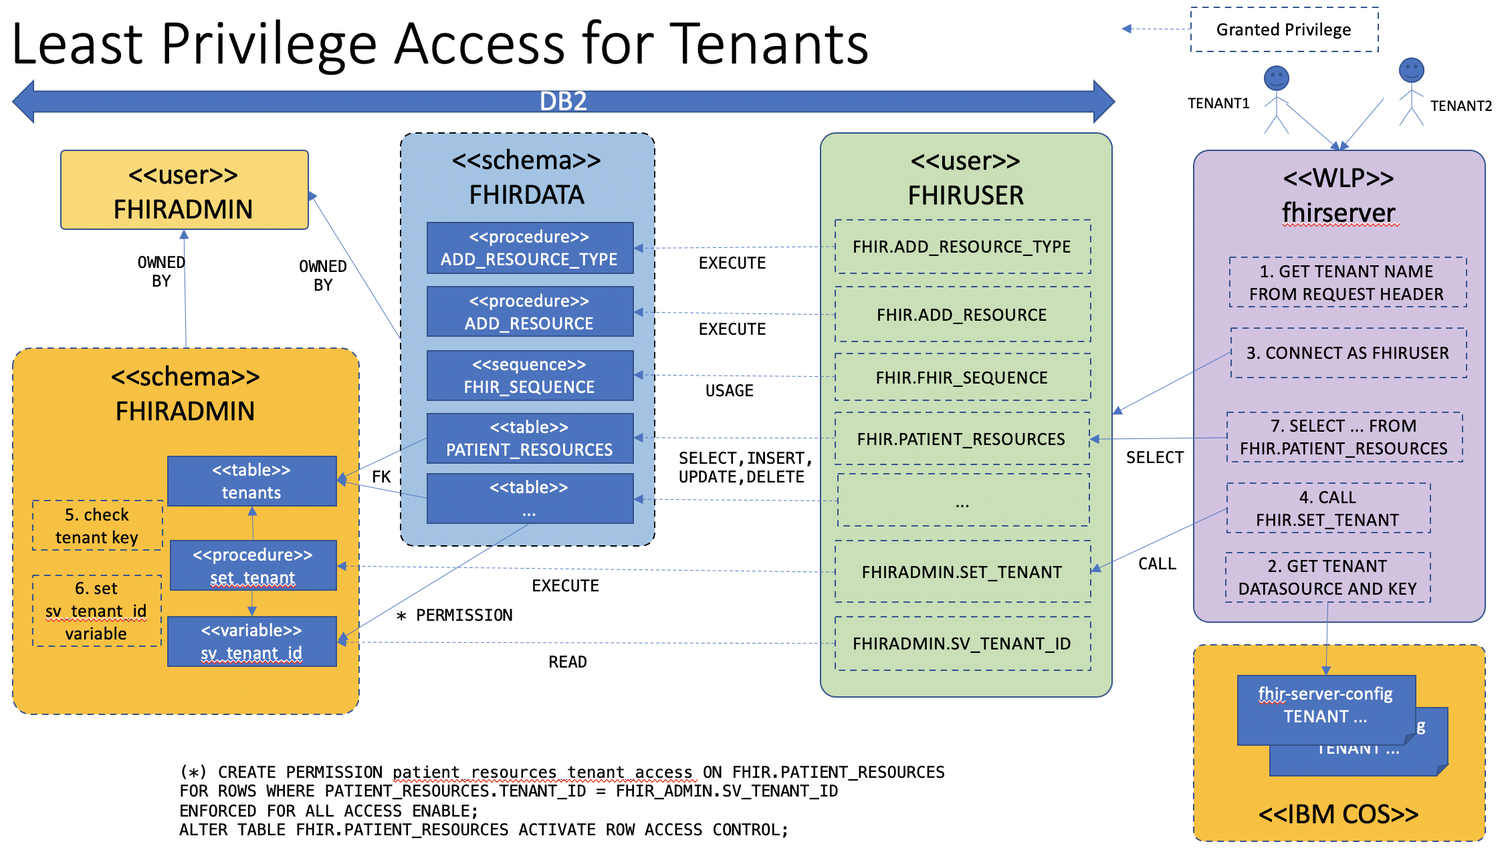
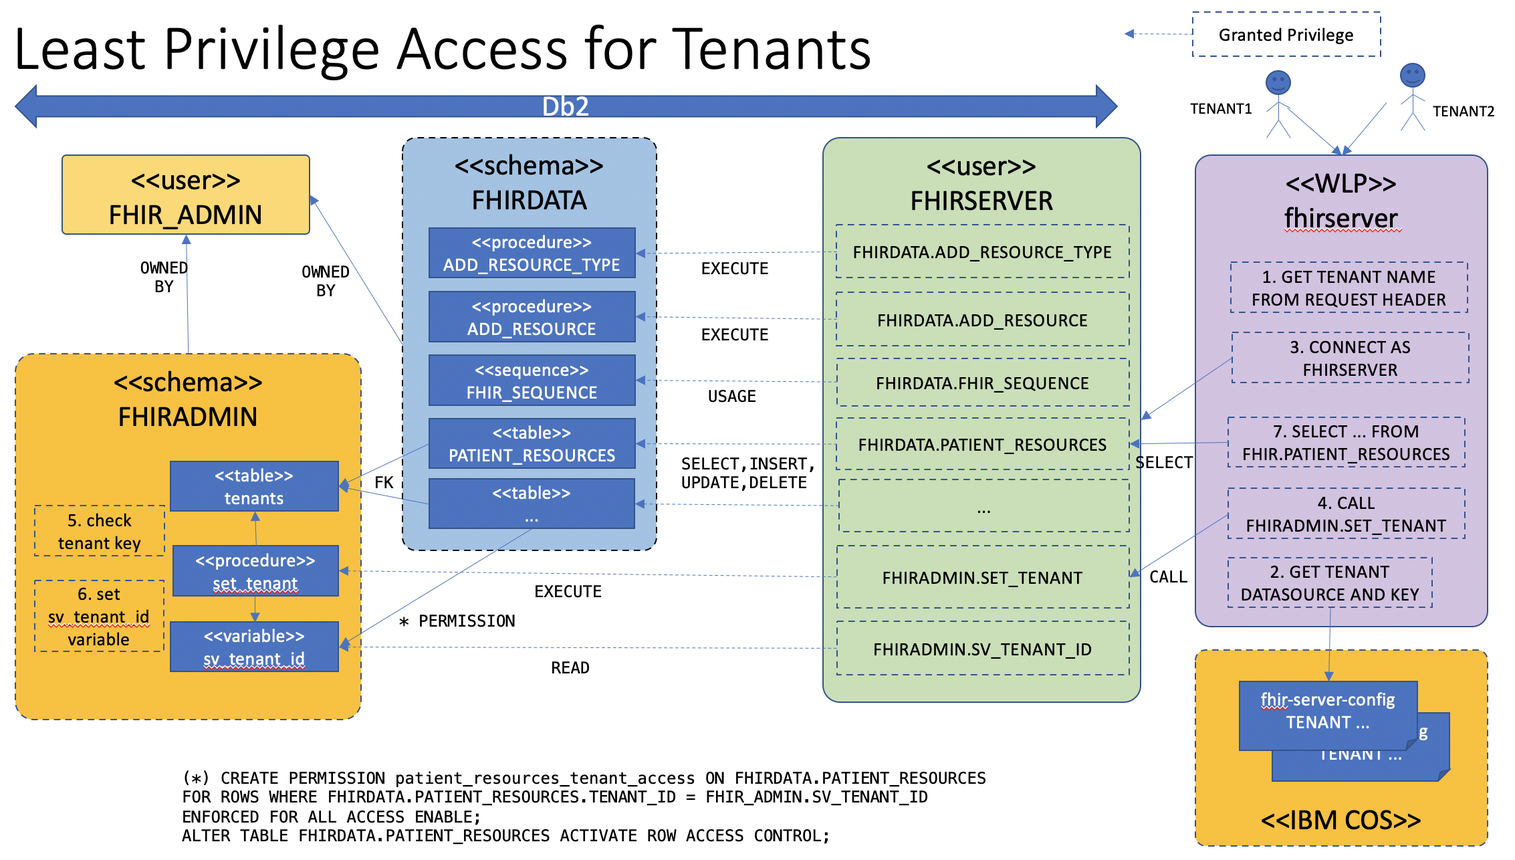
issue-1132 addressed review comments from Paul

diff --git a/fhir-persistence-schema/docs/DB2MultiTenancy.md b/fhir-persistence-schema/docs/DB2MultiTenancy.md
@@ -12,17 +12,17 @@ This document assumes familiarity with the general [IBM FHIR Server schema desig
 
 The IBM FHIR Server design supports three levels of multi-tenancy:
 
-1. Separate database per tenant
-2. Separate data schema per tenant
+1. Separate database per tenant. Each tenant can specify a unique database in its fhir-server-config.json file. Each database gets its own FHIR_ADMIN schema. Each database should be run on its own host.
+2. Separate data schema per tenant. Each tenant can specify a different schema in its fhir-server-config.json file. The database shares a common FHIR_ADMIN schema. Each tenant may be configured to use separate credentials with the corresponding users granted explicit access to the objects in the tenant's schema.
 3. (Db2-only) multiple tenants per schema, partitioned with row-based access control and per-tenant tablespaces.
 
 Of course, an entire deployment (application servers and database) also could be dedicated to a single tenant, which is really just a variant of option 1 above, although clearly such a configuration would not be considered multi-tenant.
 
 ## Tenant Data Administration
 
-The IBM FHIR Server separates schema administration data from user data. All administration data is held in tables within the FHIRADMIN schema, and these tables are not directly accessible by the IBM FHIR Server database user.
+The IBM FHIR Server separates schema administration data from user data. All administration data is held in tables within the FHIR_ADMIN schema, and these tables are not directly accessible by the IBM FHIR Server database user.
 
-The FHIRADMIN schema is used to manage schema version migrations as well as tenant configuration for any tenants resident in the given database. The FHIRADMIN schema does not manage tenants in other databases.
+The FHIR_ADMIN schema is used to manage schema version migrations as well as tenant configuration for any tenants resident in the given database. The FHIR_ADMIN schema does not manage tenants in other databases.
 
 See the general [IBM FHIR Server schema design](SchemaMigration.md) documentation for a more detailed description of how FHIRADMIN tables are used to manage schema versions.
 
@@ -33,10 +33,12 @@ The IBM FHIR Server provides a multi-tenancy feature based on Db2 row-based acce
 
 Each new tenant is allocated a unique tenant id value which is of database type `INT`. All tables in the IBM FHIR Server data schema (typically `FHIRDATA`) are created as range partitioned and configured with row-based access control. 
 
-As an example, consider a table of patients created using the following DDL (illustrative only, this is not the actual IBM FHIR Server schema):
+Note, the common schema used for FHIR tables is `fhirdata`. The following examples are illustrative only for the purpose of describing how partitioning and row permission controls are used to provide multi-tenancy. The schema `example` and the tables shown below are therefore not real objects found in an actual IBM FHIR Server Db2 instance.
+
+The following DDL creates a table of patients which, for this example, are uniquely defined by a patient_name:
 
 ```
-CREATE TABLE fhirdata.patients (
+CREATE TABLE example.patients (
     mt_id               INT     NOT NULL,
     patient_name    VARCHAR(18) NOT NULL,
     age                 INT     NOT NULL,
@@ -47,12 +49,14 @@ CREATE TABLE fhirdata.patients (
 PARTITION BY RANGE (mt_id) (STARTING 0 INCLUSIVE ENDING 0 INCLUSIVE);
 ```
 
-Each tenant is allocated a unique integer value for mt_id (multi-tenant id), with a range partition used to define which table partition is to be used for a particular tenant's mt_id. The mapping of tenant name to mt_id value is maintained in the FHIR_ADMIN.TENANTS table.
+Each tenant is allocated a unique integer value for mt_id (multi-tenant id), with a range partition used to define which table partition is to be used for a particular tenant's mt_id. The mapping of tenant name to mt_id value is maintained in the `FHIR_ADMIN.TENANTS` table.
+
+Query predicates must therefore always include a filter on mt_id to ensure only data for the matching tenant is accessed. Leaving this to the application would be onerous, and likely error-prone with significant risks for data privacy. To avoid this, the design uses a row permission object attached to each table. This is described fully in a later section, but the net is that this permission object automatically adds a `WHERE mt_id = ...` predicate to every query, which means that the application doesn't have to concern itself with this.
 
 The above example assumes that patient_name will be unique within the context of a single tenant, which obviously does not apply to the actual IBM FHIR Server schema. The primary key must include the partition range key `mt_id`. In addition, any secondary indexes MUST also include mt_id to ensure they are always local to the partition. For example:
 
 ```
-CREATE UNIQUE INDEX ptng.unq_ssn ON ptng.patients(mt_id, ssn);
+CREATE UNIQUE INDEX example.unq_ssn ON example.patients(mt_id, ssn);
 ```
 
 Local indexes are important to ensure proper tenant data isolation, with the added benefit of simplifying the task of removing the tenant when the time comes.
@@ -73,7 +77,7 @@ To add a new tenant, a utility program connects to Db2 as the FHIRADMIN user and
 
 The tablespace is managed automatically with an ([EXTENTSIZE](https://www.ibm.com/support/knowledgecenter/SSEPGG_11.5.0/com.ibm.db2.luw.admin.dbobj.doc/doc/c0004964.html)) of 128KB. Note, the extentsize is multiplied by the pagesize to arrive at a storage size.
 
-Each tenant is allocated a partition based on the MT_ID and assigned to a tablespace. The tenant `tablespace` is created one time and no changes to the tablespace are expected.
+Each tenant is allocated a partition based on the MT_ID and assigned to a tablespace. The tenant tablespace is created one time and no changes to the tablespace are expected.
 
 In general, smaller extent sizes can harm the performance of table and index scans because they limit the amount of data which can be read in a single IO operation. However, such scans are not common in most FHIR query use-cases, so this tends to not be an issue.
 
@@ -85,12 +89,12 @@ We could use the multi-tenant enabled table definition as-is and modify every SQ
 Instead, we leverage DB2 permission objects which allow us to specify a filter condition. Each query submitted by the application is rewritten by the database to include the `FOR ROWS WHERE` predicate, which is defined as: 
 
 ```
-CREATE PERMISSION ROW_ACCESS ON ptng.patients
-         FOR ROWS WHERE patients.mt_id = ptng.session_tenant
+CREATE PERMISSION ROW_ACCESS ON example.patients
+         FOR ROWS WHERE patients.mt_id = example.session_tenant
          ENFORCED FOR ALL ACCESS
            ENABLE;
 
-ALTER TABLE ptng.patients ACTIVATE ROW ACCESS CONTROL;
+ALTER TABLE example.patients ACTIVATE ROW ACCESS CONTROL;
 ```
 
 The `session_tenant` above is defined as a session variable. The application must set the value to match the mt_id value configured for the tenant.
@@ -98,18 +102,18 @@ The `session_tenant` above is defined as a session variable. The application mus
 Logically:
 
 ```
-SET ptng.session_tenant = 1;
-SELECT * FROM ptng.patients;
+SET example.session_tenant = 1;
+SELECT * FROM example.patients;
 commit;
 ```
 
 Internally, DB2 rewrites the query to look like this:
 
 ```
-SELECT * FROM ptng.patients WHERE mt_id = 1;
+SELECT * FROM example.patients WHERE mt_id = 1;
 ```
 
-Because the table `ptng.patients` is partitioned using mt_id, the query optimizer is able to perform a partition-prune, by limiting the query access to the partition associated with the tenant. This results in a query execution plan very similar in terms of performance to a single-tenant scenario without any partitioning.
+Because the table `example.patients` is partitioned using mt_id, the query optimizer is able to perform a partition-prune, thereby limiting the query access to the partition associated with the tenant. This results in a query execution plan very similar in terms of performance to a single-tenant scenario without any partitioning.
 
 To isolate a tenant's data at the file-system level, a tablespace is created per tenant and the partition objects are are allocated to that tablespace, including any local indexes:
 
@@ -123,10 +127,10 @@ Adding new tenants requires adding partitions to each table in the data schema. 
 
 ```
 -- for tenant #1
-ALTER TABLE ptng.patients ADD PARTITION TENANT1 STARTING 1 INCLUSIVE ENDING 1 INCLUSIVE IN TS_TENANT1;
+ALTER TABLE example.patients ADD PARTITION TENANT1 STARTING 1 INCLUSIVE ENDING 1 INCLUSIVE IN TS_TENANT1;
 
 -- for tenant #2
-ALTER TABLE ptng.patients ADD PARTITION TENANT2 STARTING 2 INCLUSIVE ENDING 2 INCLUSIVE IN TS_TENANT2;
+ALTER TABLE example.patients ADD PARTITION TENANT2 STARTING 2 INCLUSIVE ENDING 2 INCLUSIVE IN TS_TENANT2;
 ```
 
 When the tenant is deleted, the partition associated with the tenant is detached and subsequently dropped from the database. This renders the tenant data inaccessible from the perspective of a database user. However, database space management does not necessarily overwrite the freed blocks. Although the data is encrypted, someone with the database key and sufficient time, tooling and knowledge could theoretically retrieve parts of the data. By using a tablespace which is dropped, the database will delete the files at the OS layer.
@@ -145,20 +149,18 @@ DROP TABLESPACE TS_TENANT1;
 
 In this case, TS_TENANT1 is the name of the tablespace previously assigned to the tenant being dropped.
 
-Note that DB2 requires a commit after the partition is detached and before the table `<tbl_drp1>` can be dropped. The tooling must implement this process to be idempotent to handle cases where a detach or drop might fail.
+Note that Db2 requires a commit after the partition is detached and before the table `<tbl_drp1>` can be dropped. The tooling must implement this process to be idempotent to handle cases where a detach or drop might fail.
 
 Dropping partitions in this way works by swizzling metadata in the catalog which requires very little (redo) logging and is therefore far more efficient than deleting actual rows of data.
 
 
-
-
 ## Tenant Authentication
 
-The server connect to Db2 with a user configured for the least privileges it requires to provide the FHIR resource persistence and search functions. This user does not have any database administration privileges, unlike the FHIRADMIN user which is used to deploy the schema, allocate tenants etc.
+The server connects to Db2 with a user configured for the least privileges it requires to provide the FHIR resource persistence and search functions. This user does not have any database administration privileges, unlike the FHIRADMIN user which is used to deploy the schema and allocate tenants etc.
 
 ![Privilege Design](privilege_design.png)
 
-To prevent an application (or other user with access to the applications database connection information) from arbitrarily setting the session_tenant value, the user used by the IBM FHIR server to connect is granted only read access to the variable. This is why we create the session_tenant variable in the FHIR_ADMIN schema, owned by the FHIRADMIN user, not the FHIRDATA schema, which is the default schema for the user used by the server to access the database. In order to set (write) its value, the data user is granted execute privileges on a DB2 stored procedure called FHIR_ADMIN.SET_TENANT. This is the only way a non-administrative user can set the session_tenant value and access the data.
+To prevent an application (or other user with access to the applications database connection information) from arbitrarily setting the session_tenant value, the user used by the IBM FHIR server to connect is granted only read access to the variable. This is why we create the session_tenant variable in the FHIR_ADMIN schema, owned by the FHIRADMIN user, not the FHIRDATA schema, which is the default schema for the user used by the server to access the database. In order to set (write) its value, the data user is granted execute privileges on a Db2 stored procedure called FHIR_ADMIN.SET_TENANT. This is the only way a non-administrative user can set the session_tenant value and access the data.
 
 The following table summarizes the properties/values involved in authenticating tenant access:
 
@@ -171,14 +173,14 @@ The following table summarizes the properties/values involved in authenticating 
 | TENANT_HASH | A SHA-256 hash of the TENANT_KEY and TENANT_SALT. The TENANT_KEY is never stored directly by the database. |
 
 
-The FHIR_ADMIN.SET_TENANT stored procedure takes two parameters: the tenant name and the tenant key. This acts as a user/password pair tuple. The SET_TENANT code looks up a previously stored salt value associated with the tenant name and computes a hash of the salt + tenant key. If the result matches the stored hash value, the call is considered authentic, and the session_tenant variable is set.
+The FHIR_ADMIN.SET_TENANT stored procedure takes two parameters: the tenant name and the tenant key. This acts as an authorization key. The SET_TENANT code looks up a previously stored salt value associated with the tenant name and computes a hash of the salt + tenant key. If the result matches the stored hash value, the call is considered authentic, and the session_tenant variable is set.
 
 To summarize, for a client application to access tenant data in the multi-tenant Db2 schema, the following must apply:
 
-1. The client (e.g. the server) must have access to the database as the FHIRUSER user;
-2. The user FHIRUSER must be granted execute privilges on the FHIR_ADMIN.SET_TENANT procedure;
-3. The user FHIRUSER must be granted READ on FHIR_ADMIN.SV_TENANT_ID;
-4. The user FHIRUSER must be granted SELECT,INSERT,UPDATE,DELETE on all tables in the FHIRDATA schema. 
+1. The client (e.g. the server) must have access to the database as the FHIRSERVER user;
+2. The user FHIRSERVER must be granted execute privilges on the FHIR_ADMIN.SET_TENANT procedure;
+3. The user FHIRSERVER must be granted READ on FHIR_ADMIN.SV_TENANT_ID;
+4. The user FHIRSERVER must be granted SELECT,INSERT,UPDATE,DELETE on all tables in the FHIRDATA schema. 
 
 ## Summary of Granted Privileges:
 
@@ -186,19 +188,19 @@ To summarize, for a client application to access tenant data in the multi-tenant
 | --- |
 | All objects in schema FHIR_ADMIN are owned by user FHIRADMIN |
 | All objects in schema FHIRDATA are owned by user FHIRADMIN |
-| GRANT EXECUTE ON FHIR_ADMIN.SET_TENANT TO FHIRUSER; |
-| GRANT READ ON FHIR_ADMIN.SV_TENANT_ID TO FHIRUSER; |
-| GRANT EXECUTE ON FHIRDATA.ADD_RESOURCE_TYPE TO FHIRUSER; |
-| GRANT EXECUTE ON FHIRDATA.ADD_RESOURCE TO FHIRUSER; |
-| GRANT SELECT,INSERT,UPDATE,DELETE ON FHIRDATA.PATIENT_RESOURCES TO FHIRUSER; |
+| GRANT EXECUTE ON FHIR_ADMIN.SET_TENANT TO FHIRSERVER; |
+| GRANT READ ON FHIR_ADMIN.SV_TENANT_ID TO FHIRSERVER; |
+| GRANT EXECUTE ON FHIRDATA.ADD_RESOURCE_TYPE TO FHIRSERVER; |
+| GRANT EXECUTE ON FHIRDATA.ADD_RESOURCE TO FHIRSERVER; |
+| GRANT SELECT,INSERT,UPDATE,DELETE ON FHIRDATA.PATIENT_RESOURCES TO FHIRSERVER; |
 
 
 ## Tenant Data Security
 
-HIPAA controls require protected data at rest is encrypted, and this is implemented by using Db2 native encryption. When the tenant is deleted, its data must be rendered inaccessible. This is achieved by the following:
+PHI controls require data at rest is encrypted, and this is implemented by using Db2 native encryption. When the tenant is deleted, its data must be rendered inaccessible. This is achieved by the following:
 
 1. Detaching the tenant's partition and dropping the table created by the detach operation.
-2. Dropping the tenant's tablespace, which will delete the database container files on the underlying OS filesystem.
+2. Dropping the tenant's tablespace, deletes the database container files on the underlying OS filesystem.
 
 The above actions mean that the tenant's data would no longer be accessible at the database or file-system levels.
 
@@ -211,8 +213,6 @@ Because dropping a tablespace causes Db2 to delete the underlying container file
 3. detailed knowledge of OS file systems and data recovery tools;
 4. detailed knowledge of Db2 internals and data recovery tools;
 5. opportunity to retrieve the data before the OS reused the free blocks in the filesystem.
-
-
 
 
 # Multi-Tenancy Schema
@@ -240,8 +240,6 @@ The `CreateVersionHistory` class controls the creation the `VERSION_HISTORY` tab
 This table is an administrative table and should not require updating and migration. 
 
 
-
-
 **Table: TENANTS**
 
 The Tenants table maps a given tenant to the Multi-Tenant ID (MT_ID) for the given tenant.  The MT_ID is subsequently used to restrict row access based on the matching value. 
@@ -263,7 +261,6 @@ Tenant Status is one of the following:
 | DROPPED | Indicates the previous tenant data is now removed |
 | FREE | Indicates a set of tables is provisioned, and available to be allocated to a specific tenant |
 
-
 The `FHIR_ADMIN.TENANTS` table maps a given tenant to the Multi-Tenant ID (MT_ID) for the given tenant.  The MT_ID is subsequently used to restrict row access based on the matching value. 
 
 `AdminSchemaGenerator.addTenantTable` method adds the TENANT table, and updates to this table definition requries a change to the setVersion (incrementing by 1). A corresponding change must be made to `FHIRSchemaGenerator.addTenantTable` method.
@@ -272,7 +269,7 @@ The primary key for TENANTS is MT_ID, and the relationship to TENANT_KEYS is one
 
 The TENANT_SEQUENCE sequence is created a single time, and is NOT replaced or upgraded at any point in time.  Changing the sequence value is not recommended. Doing so could risk the integrity of the database. The `fhir-persistence-schema` actions - `Allocate Tenant - AddTenantDAO` and `Add Tenant - AddTenantKeyDAO` depend on `next value for`.  If the sequence is removed, the `TENANT_SEQUENCE` must be manually recreated starting with an integer higher than the `TENANTS.MT_ID` and `TENANT_KEYS.TENANT_KEY_ID` otherwise a conflict with the PRIMARY_KEY in the `FHIR_ADMIN` tables occurs. 
 
-The variable privileges (grants) are updated one time, and applied to `FHIRUSER` user.  If you recreate the sequence, you must recreate the `USE` permission. 
+The variable privileges (grants) are updated one time, and applied to `FHIRSERVER` user.  If you recreate the sequence, you must recreate the `USE` permission. 
 
 **Table: TENANT_KEYS**
 
@@ -314,7 +311,6 @@ this.tenantsTable = Table.builder(adminSchemaName, TENANTS)
 If the UniqueIndex or ForeignKeyConstraint is removed, and the constraint has been previously applied to a database, the active schema must be updated, and the object must be dropped.
 
 
-
 **Table: TENANT_KEYS**
 
 The Tenant Keys table stores a hashed version of the tenant specific key. Upon creating a session and calling the SET_TENANT procedure, the SET_TENANT queries the incoming key against the TENANT_KEYS database to map to a specific tenant MT_ID. 
@@ -343,11 +339,11 @@ The VERSION_HISTORY table enables Tenant version isolation, so upgrades and patc
 | APPLIED | TIMESTAMP | 10 | No | The time of the latest object update |
 
 
-## SV_TENANT_ID SESSION VARIABLE 
+**SV_TENANT_ID: SESSION VARIABLE**
 
 The `FHIR_ADMIN.SV_TENANT_ID` session variable is used in a row permission object to isolate data among tenants. The variable is created in `FHIRSchemaGenerator.addVariable`, and its definition should not be modified. 
 
-The variable privileges (grants) are updated one time, and applied to `FHIRUSER` user. The `FHIRUSER` gets only read access to this variable. To set the value of the variable, `FHIRUSER` must call `FHIR_ADMIN.SET_TENANT` as described in the next section.
+The variable privileges (grants) are updated one time, and applied to `FHIRSERVER` user. The `FHIRSERVER` gets only read access to this variable. To set the value of the variable, `FHIRSERVER` must call `FHIR_ADMIN.SET_TENANT` as described in the next section.
 
 `FHIR_ADMIN.SET_TENANT` is created in the FHIR_ADMIN schema. If updates are made to the `set_tenant.sql`, the `FhirSchemaGenerator.buildAdminSchema`'s, do not change the version number. All procedures are applied as CREATE OR REPLACE, and so the new procedure text will simply overwrite the current definition, or create it if it does not exist at the time. The schema utility tool has a special option which only updates the procedures, which is useful for development. See the [schema utility tool](https://github.com/IBM/FHIR/tree/master/fhir-persistence-schema/README.md) guide for more information.
 
@@ -473,9 +469,8 @@ The Multi-tenant schema sets the following permissions:
 - GRANT EXECUTE ON FHIRDATA.ADD_RESOURCE TO FHIRSERVER;
 - GRANT SELECT,INSERT,UPDATE,DELETE ON FHIRDATA.PATIENT_RESOURCES TO FHIRSERVER;
 
-FHIRADMIN owns all schema objects. 
 FHIRSERVER is granted a minimum set of privileges. 
-SET_TENANT is the only way to write the SV_TENANT_ID. 
+The SET_TENANT procedure is the only way that the FHIRSERVER use can set the SV_TENANT_ID value.
 
 
 ## References

diff --git a/fhir-persistence-schema/docs/SchemaMigration.md b/fhir-persistence-schema/docs/SchemaMigration.md
@@ -42,7 +42,7 @@ The schema generates the following object types that require management:
 
 The IBM FHIR schema is managed in code and is applied to a target database using a JDBC connection. This simplifies development of Derby-based unit-tests, allows a common schema definition to be used across multiple database flavors, simplifies deployment in cloud scenarios, and because the data model dependencies are understood by the code, the schema creation process can be parallelized to reduce deployment times. In practice, however, we've found that the number of threads must be limited due to driving contention in the internal catalog tables (in DB2, for example). We have also found that some parallel object create operations cause internal database deadlocks (notably creating foreign key relationships). The implementation contains a retry loop, but may fail if the retry limit is exceeded. Note that these deadlocks are internal to Db2, not the more common kind typically caused by poor application code.
 
-The `FHIR_ADMIN` schema is used to manage meta-data related to the actual data schemas. A single database instance can be used to support multiple FHIR data schemas, as long as the FHIR_ADMIN schema structure doesn't change. At the time of writing, the IBM FHIR Server does not support more than one FHIR_ADMIN schema in a single database. If a use-case arises where this is required, it is simply a matter of identifying in code where FHIR_ADMIN is used as a constant and replacing instances with a configurable property, although an implementation may also want to consider protecting individual schemas from accidentally being managed by more than one FHIR_ADMIN schema. One possible use-case for this sharing is using a database instance for schema development work, although use of the Db2 docker container makes this moot.
+The `FHIR_ADMIN` schema is used to manage meta-data related to the actual data schemas. A single database instance can be used to support multiple FHIR data schemas, as long as the FHIR_ADMIN schema structure doesn't change. At the time of writing, the IBM FHIR Server does not support more than one FHIR_ADMIN schema in a single database. If a use-case arises where this is required, it is simply a matter of identifying in code where FHIR_ADMIN is used as a constant and replacing instances with a configurable property, although an implementation may also want to consider protecting individual schemas from accidentally being managed by more than one FHIR_ADMIN schema. One possible use-case for this sharing is using a database instance for schema development work.
 
 The `FHIR_ADMIN` schema also plays an important role in managing tenants in the Db2 multi-tenant implementation. See the [Db2 Multi-Tenant Schema Design](DB2MultiTenancy.md) for more details.
 
@@ -57,7 +57,7 @@ The following table highlights the main differences among the database implement
 | DB2        | An SPL stored procedure is used to implement the resource storage logic, reducing the number of application server to database round-trips, improving performance |
 | DB2        | Uses `FHIR_TS` tablespace for admin tables, and a tablespace per tenant |
 | DB2        | `FHIR_TS` is created using a small extent size for efficiency |
-| PostgreSQL | Based on the Derby implementation, but uses a stored procedure for the resource persistence logic, like DB2 |
+| PostgreSQL | Uses a function for the resource persistence logic |
 | PostgreSQL | TEXT type used instead of CLOB for large data values |
 | Derby      | Resource persistence is implemented at the DAO layer as a sequence of individual statements instead of one procedure call. At a functional level, the process is identical. Simplifies debugging and supports easier unit-test construction. |
 
@@ -139,8 +139,6 @@ NOTE: Schema changes must always be carefully considered and in an ideal world a
 The DDL for most objects (like tables) is specified once. Changes to the table structure are applied as alter statements and assigned an increasing version id. We use a simple version number tracking to identify which changes (deltas) need to be applied to a particular object.
 
 The schema update utility first reads the VERSION_HISTORY table, loading all records for the target schema (e.g. FHIRDATA). The utility only applies changes which have a version number greater than the currently recorded version. Once the DDL has been applied successfully, the version number is updated in VERSION_HISTORY. This makes the processed idempotent. Subsequent runs of the schema update utility only apply changes which have a greater version id value than the most recently stored value for each object.
-
-Enhancements to schema migration handling are tracked in [issue-1163](https://github.com/IBM/FHIR/issues/1163).
 
 
 ## TABLESPACES
